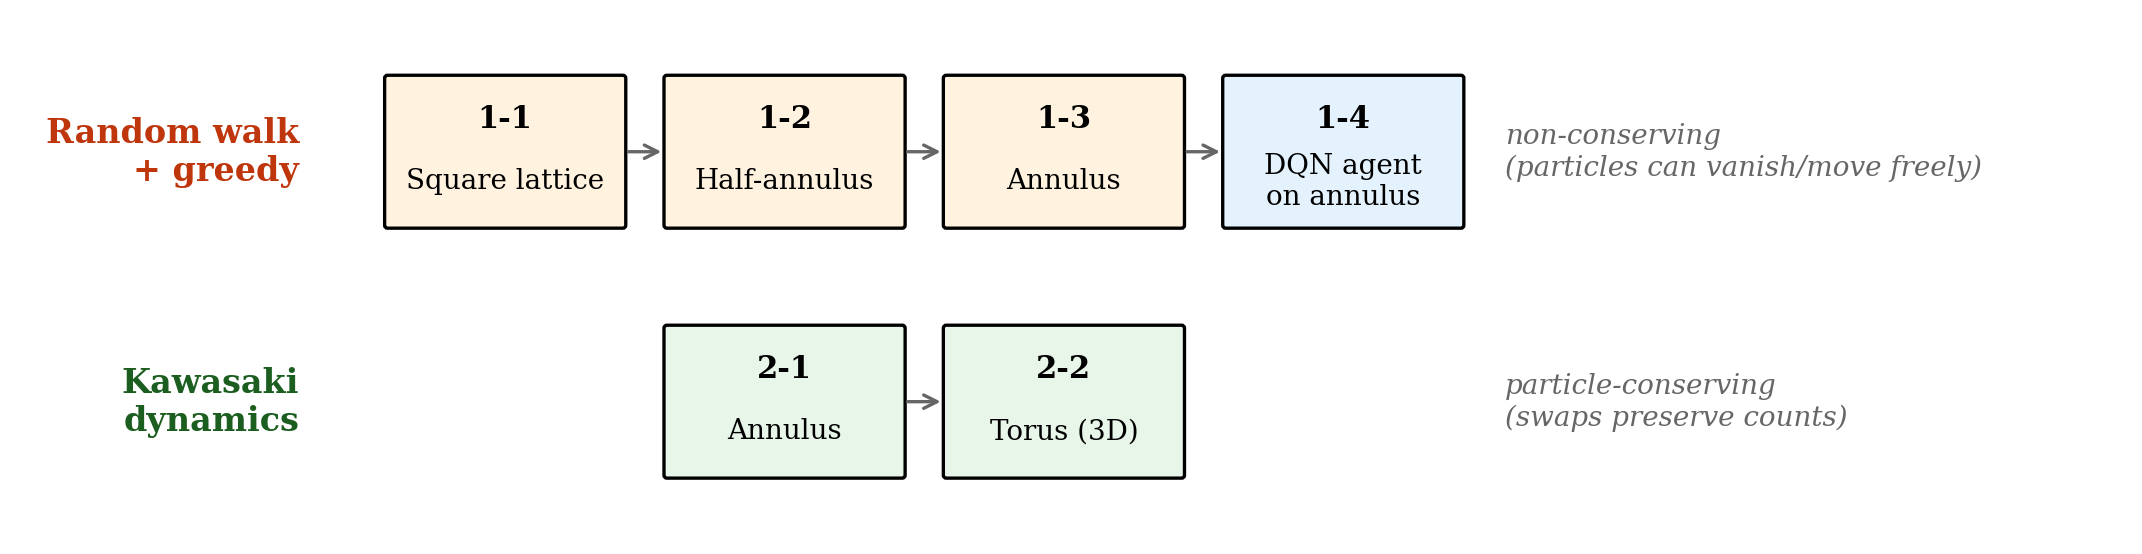
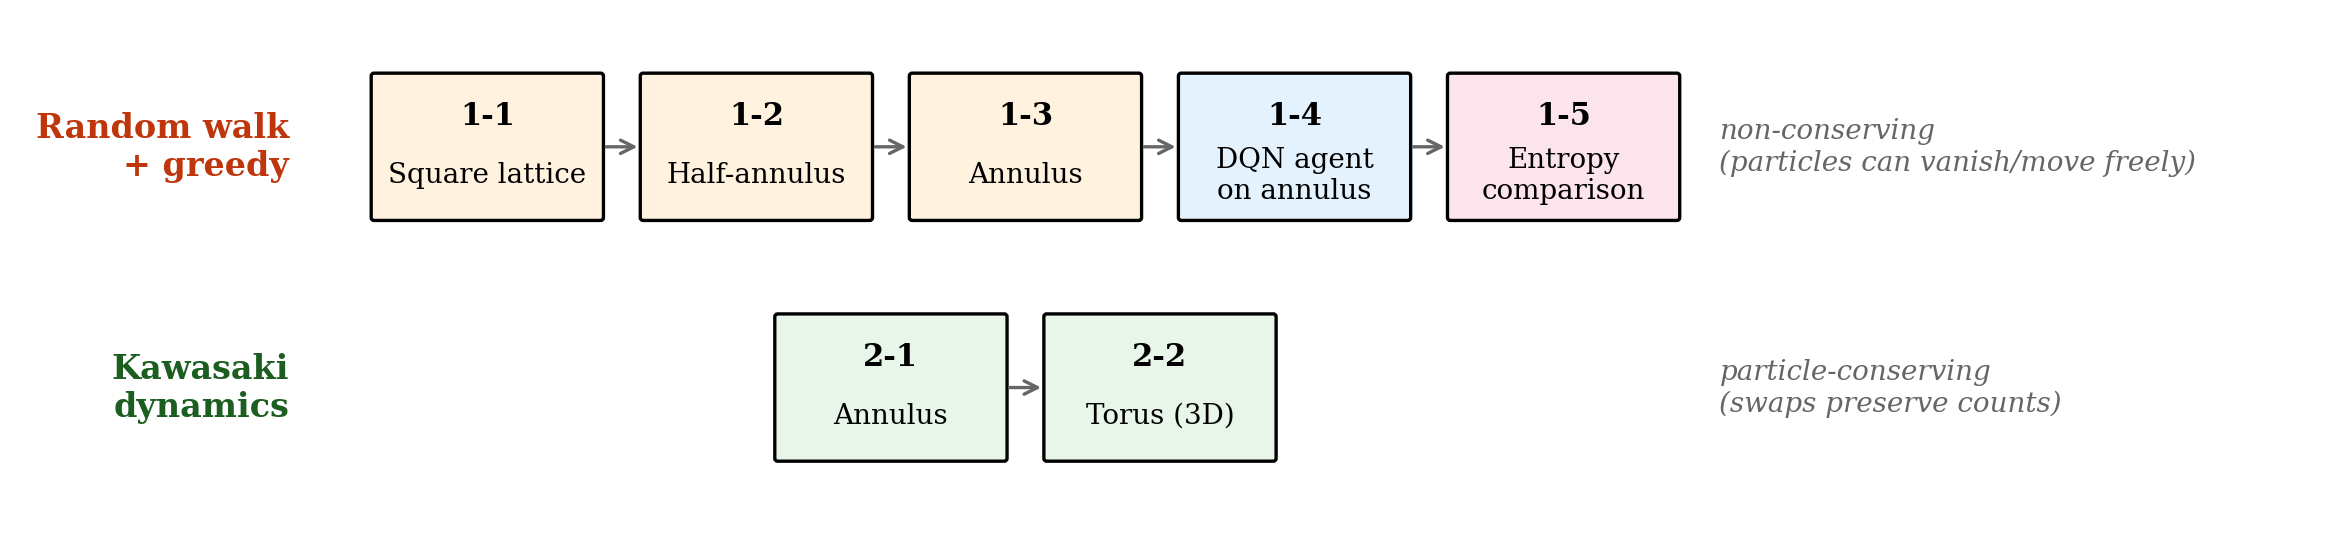
Revision : Physics exmplanation

diff --git a/content/teaching/random-processes/index.md b/content/teaching/random-processes/index.md
@@ -58,7 +58,73 @@ Setup:
 
 After training, the agent is run with ε = 0 (pure greedy). The resulting configurations look qualitatively similar to the hand-coded greedy phase from 1-3.
 
-The honest takeaway is *not* "DQN solves this problem better than the hand-coded rule." It does not. The takeaway is that the agent independently rediscovers a similar strategy — which is a good demonstration that the hand-coded rule was capturing something real about the reward landscape.
+But "qualitatively similar" is too soft a statement to be useful. We need a quantitative way to *compare diffusion across the three policies* — random walk, hand-coded greedy, and the trained DQN agent. That is what §1-5 is for.
+
+### 1-5: quantifying spread with two entropies
+
+Two complementary measurements:
+
+**Occupancy entropy** $S_{\mathrm{occ}}$ — *"how spread the particles are over the annulus"*
+
+Coarse-grain the lattice into $b \times b$ blocks. Let $n_k$ be the number of particles in block $k$, $p_k = n_k / N_{\text{total}}$. Then
+
+$$
+S_{\mathrm{occ}} \,=\, -\sum_k p_k \log p_k.
+$$
+
+This measures how uniformly the particles cover the available space. Maximum value is $\log(\text{number of nonzero blocks})$, achieved when every block has the same particle count.
+
+**Local-pattern entropy** $S_{\mathrm{loc}}$ — *"how diverse the per-particle environments are"*
+
+For each particle, extract the $3 \times 3$ patch centered on it (each cell labeled *wall* / *empty* / *particle*). Build a histogram over all observed patches across all particles, and compute the entropy of that distribution.
+
+$$
+S_{\mathrm{loc}} \,=\, -\sum_{\text{pattern } \pi} q_\pi \log q_\pi.
+$$
+
+Higher = particles experience many *different* local environments → unstructured / random-looking. Lower = particles see *similar* environments → arranged in a regular pattern.
+
+**These two together** give a more honest picture than either alone. A configuration can be uniform on large scales but irregular up close, or vice versa. The two policies that the notebook hand-codes (random walk, global greedy) live at opposite extremes; a learned policy can land somewhere in between.
+
+### Entropy results for three policies
+
+The notebook §1-5 measures both entropies as a function of step count for three policies on the annulus, all starting from the same left-clustered initial state:
+
+- **Random walk** — propose a random move, always accept (subject to exclusion).
+- **Global greedy (hand-coded)** — propose a random move, accept iff the sum of distances to *all* other particles improves.
+- **Local greedy (DQN proxy)** — propose a random move, accept iff the inverse-distance sum to particles within a small local neighborhood ($R = 3$) improves. *This is what a well-trained DQN with a $7 \times 7$ receptive field converges to: a policy that uses only local information.*
+
+> **A note on the "DQN proxy"**: the actual DQN with weights from training is exercised in the notebook itself (the cell after this measurement code uses the trained `policy_net`). For the figure here, I ran a hand-coded *local-greedy* surrogate that captures the same essential structure — uses only local information, gradient-descends on a separation-style score within a small window. The student's job in the notebook is to verify that the *real* trained DQN matches the proxy curves to within reasonable tolerance.
+
+The result:
+
+![Entropy comparison: occupancy entropy (top) and local-pattern entropy (bottom) for the three policies on the annulus over 60k steps](entropy_comparison.png)
+
+And the corresponding lattice configurations at the end of the run:
+
+![Final lattice states for each of the three policies, after 60k steps starting from the same left cluster](final_states.png)
+
+The picture you should take from these figures:
+
+- **Random walk has the lowest occupancy entropy.** Surprising? It is, until you think about it: particles obstruct each other (hard-core exclusion), and 60k steps is *not* enough to reach the equilibrium of the symmetric simple exclusion process on this annulus. The cluster diffuses out, but slowly. This is a useful corrective to the textbook intuition *"random walk → uniform";* on a confined geometry with exclusion, the relaxation timescale matters enormously.
+
+- **Global greedy reaches a *low* $S_{\mathrm{loc}}$.** This is the "ordering" effect: the policy pushes particles into a regular pattern (visible in the final-state figure as a dense ring along the outer boundary), so the local environments around particles are very similar. But the global structure is *not* uniformly spread — most particles are squeezed into the outer ring.
+
+- **Local greedy (DQN proxy) sits between the two.** Its $S_{\mathrm{occ}}$ is the *highest* among the three (best spatial spread), and its $S_{\mathrm{loc}}$ is intermediate (locally ordered, but less rigidly than global greedy). Looking at the final-state figure, the local-greedy lattice has particles distributed in a pattern that fills the *entire* annulus rather than collapsing onto its boundary.
+
+This is the quantitative version of *"DQN learns something useful."* It is *not* simply rediscovering the global greedy rule; it is finding a different operating point — one that compromises perfect local order (which the global rule achieves) for better global spread (which the global rule sacrifices, because its score function pushes toward the outer boundary).
+
+### What this teaches
+
+A pedagogically useful triangle:
+
+|  | $S_{\mathrm{occ}}$ (spread) | $S_{\mathrm{loc}}$ (irregularity) | What the policy is doing |
+|---|---|---|---|
+| Random walk | low (slow relaxation) | high | exploring without coordination |
+| Global greedy | low (boundary collapse) | low | over-correcting toward order |
+| Local greedy / DQN | **high** | medium | balancing both |
+
+This is the kind of distinction students *cannot* see from looking at simulation snapshots alone — the snapshots are suggestive, but they don't separate "spread" from "order" in a quantifiable way. Two complementary entropies do.
 
 ## 2. Kawasaki dynamics
 
@@ -144,17 +210,18 @@ Approximate run times on a free Colab CPU runtime:
 |---|---|
 | 1-1, 1-2, 1-3 (random walk + greedy) | ~ 1 min each |
 | 1-4 (DQN training) | ~ 5–10 min |
+| 1-5 (entropy comparison: RW + Greedy + DQN) | ~ 3 min |
 | 2-1, 2-2 (Kawasaki on annulus + torus) | ~ 2 min each |
 | 2-2.3, 2-2.4 (3D torus visualizations) | ~ 3 min each |
 
-Total: under 20 minutes if you skip the DQN cell, around 30 minutes including it.
+Total: under 25 minutes if you skip the DQN training in §1-4, around 35 minutes including it.
 
 ## What I would do differently next time
 
 Three notes for myself if I teach this lecture again:
 
 - **Move the Kawasaki section earlier.** The conservation-law contrast is the most surprising thing in the notebook, and currently it lands at the end after 1.5 hours of build-up. Half an hour of random walk + greedy is enough.
-- **Drop the DQN cell, or split it off.** It is a fun demonstration but adds a lot of conceptual surface area (replay buffers, target networks, ε-decay) that distracts from the dynamics theme. A separate "Day 2.5" notebook on RL would be cleaner.
+- **Lead with the entropy framing.** The §1-5 entropy comparison turned out to be the place where the lecture's claims ("random walk diffuses," "greedy orders," "DQN does both") become *verifiable* rather than just suggestive. In a future iteration I would introduce $S_{\mathrm{occ}}$ and $S_{\mathrm{loc}}$ at the start of §1, measure them throughout, and let the entropy curves carry the explanatory weight.
 - **Add a coarsening exercise.** Finite-temperature Kawasaki at low $T$ produces visually striking domain growth that is not in the current notebook. The exercise hint at the end of §3 above is the place to start.
 
 ## References
